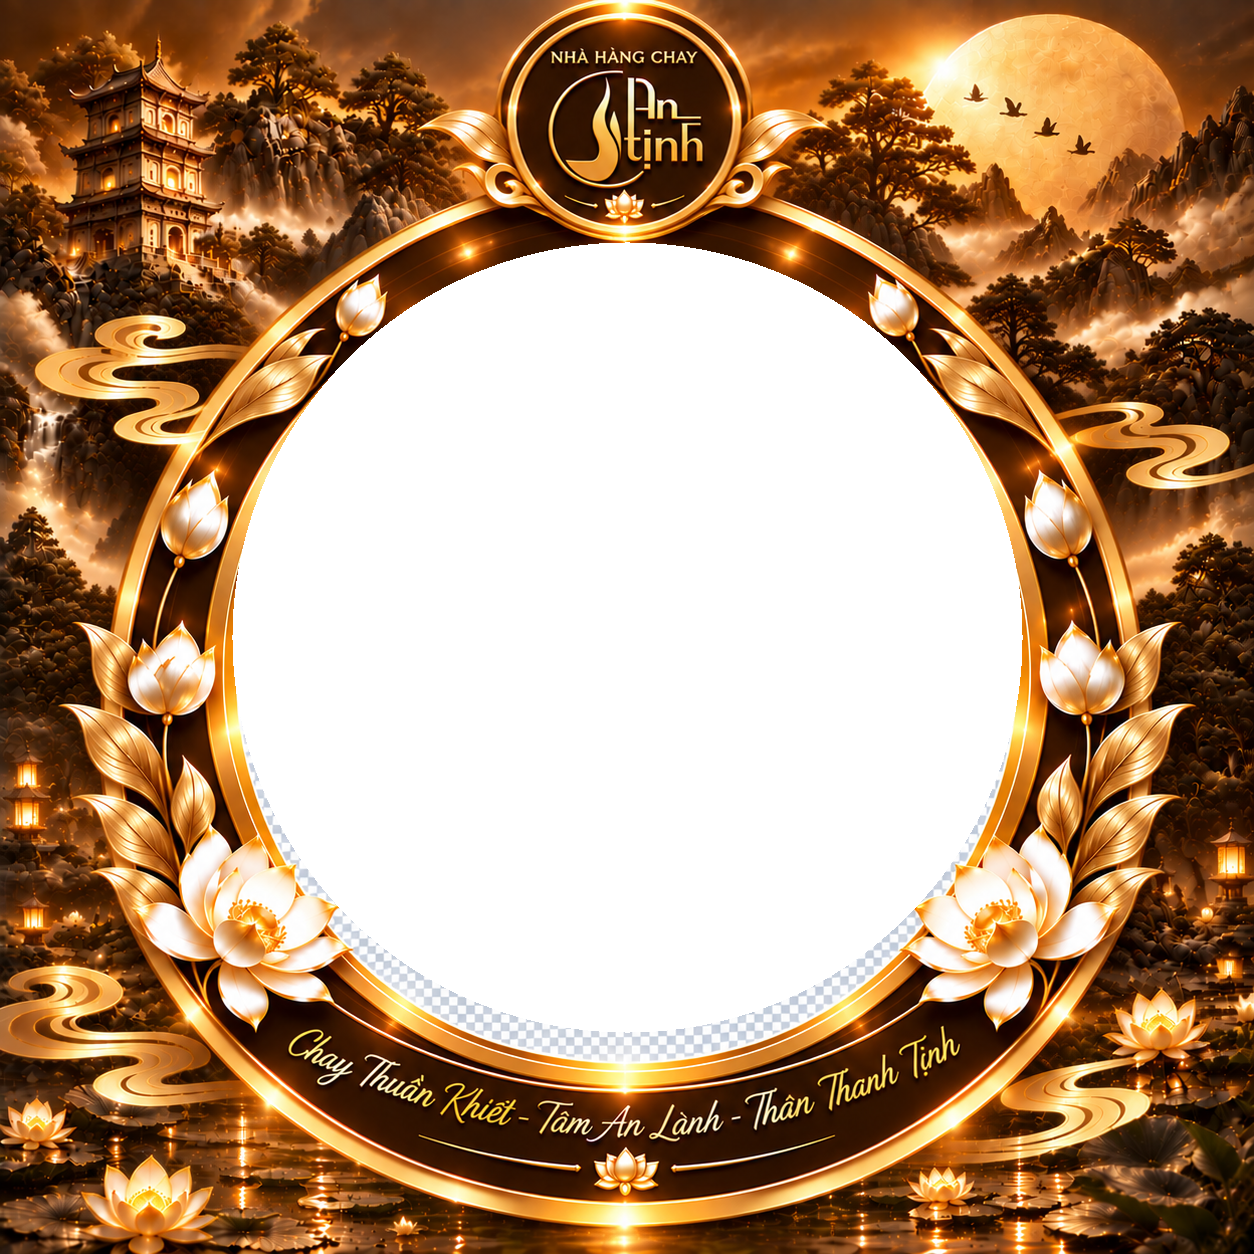
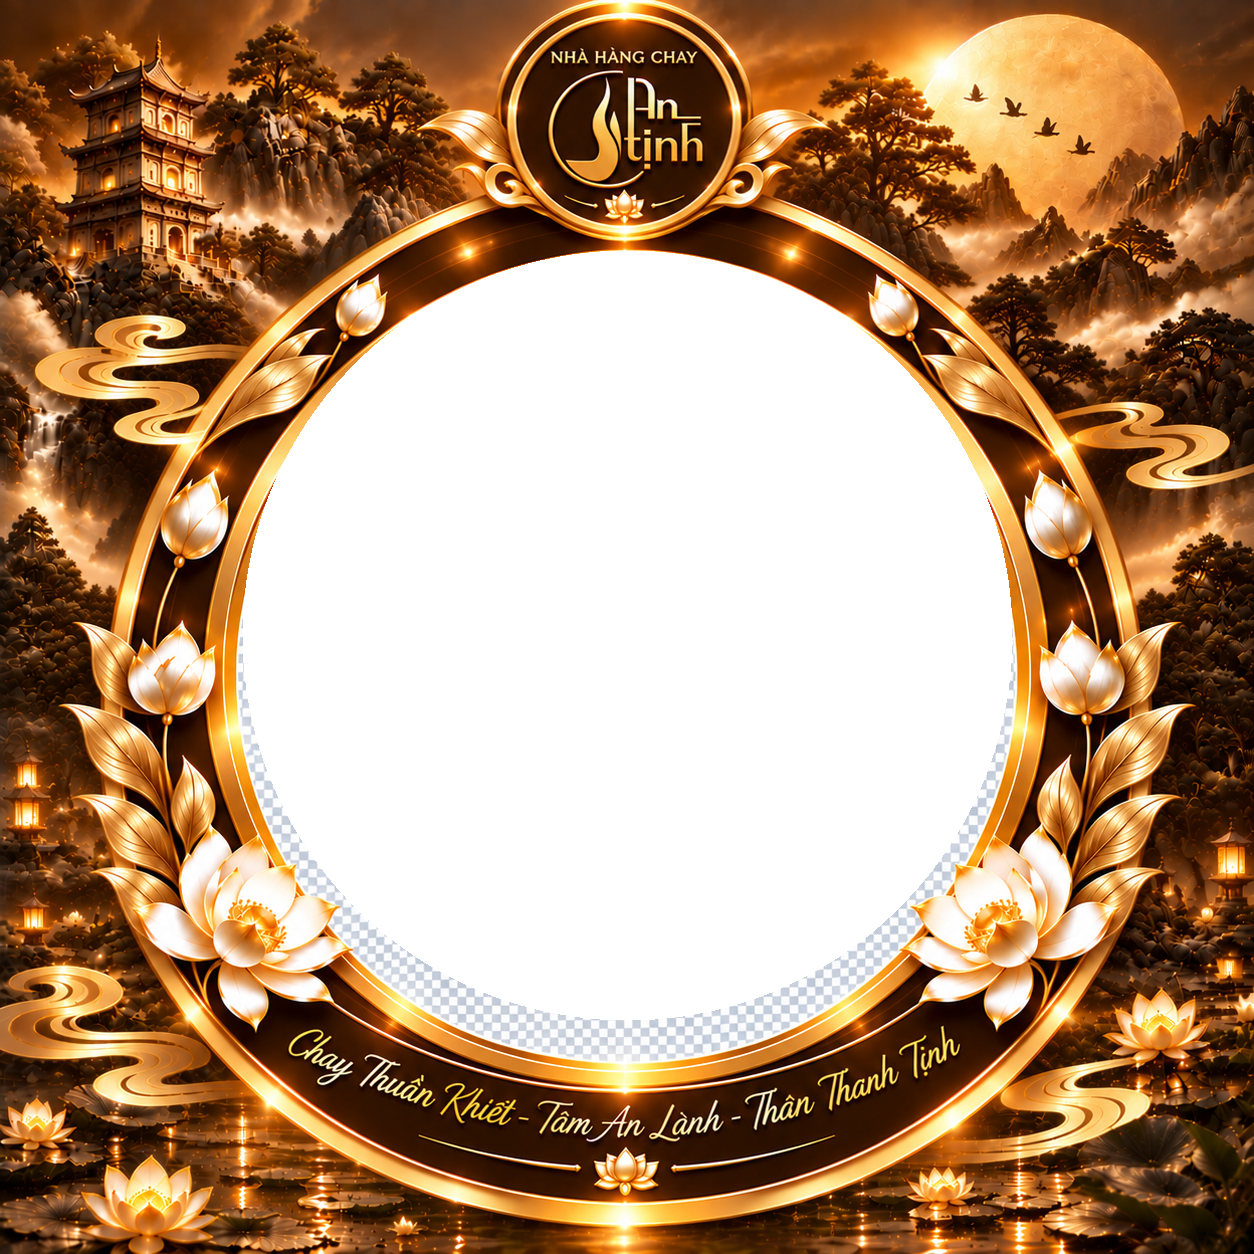
sua lại khung

diff --git a/index.html b/index.html
@@ -3,21 +3,89 @@
 <head>
 <meta charset="utf-8">
 <meta name="viewport" content="width=device-width,initial-scale=1">
-<title>Khung ảnh Nhà Hàng Chay An Tịnh</title>
+<title>Khung ảnh An Tịnh</title>
 <style>
 *{box-sizing:border-box}
-html,body{margin:0;background:#120b05}
-body{min-height:100vh;display:grid;place-items:center;padding:16px}
-.frame-wrap{position:relative;width:min(96vw,1000px);aspect-ratio:1/1;overflow:hidden}
-.photo,.frame{position:absolute;inset:0;width:100%;height:100%}
-.photo{object-fit:cover}
-.frame{object-fit:contain;pointer-events:none}
+body{margin:0;background:#160d06;color:#f8e6bf;font-family:Arial,sans-serif;text-align:center}
+.wrap{max-width:900px;margin:auto;padding:20px}
+h1{font-size:24px;margin:8px 0 6px}
+p{margin:6px 0 16px;color:#e6cf9f}
+.controls{display:flex;gap:10px;justify-content:center;flex-wrap:wrap;margin-bottom:18px}
+button,.file-label{border:1px solid #c9983e;background:#2a1709;color:#ffe7a7;padding:10px 18px;border-radius:8px;cursor:pointer;font-size:15px}
+button:hover,.file-label:hover{background:#41240e}
+input{display:none}
+.stage{position:relative;width:min(92vw,800px);aspect-ratio:1/1;margin:auto;overflow:hidden}
+#photoCanvas{position:absolute;inset:0;width:100%;height:100%;z-index:1}
+#frame{position:absolute;inset:0;width:100%;height:100%;z-index:2;pointer-events:none}
+.hint{font-size:13px;margin-top:12px;opacity:.8}
 </style>
 </head>
 <body>
-<div class="frame-wrap">
-  <img class="photo" src="photo.jpg" alt="Ảnh khách">
-  <img class="frame" src="an-tinh-frame.png" alt="Khung ảnh An Tịnh">
+<div class="wrap">
+<h1>Khung ảnh Nhà Hàng Chay An Tịnh</h1>
+<p>Chọn ảnh của khách — ảnh sẽ tự động nằm trong vùng tròn trung tâm.</p>
+<div class="controls">
+<label class="file-label">📷 Chọn ảnh<input id="file" type="file" accept="image/*"></label>
+<button id="download">⬇ Tải ảnh đã ghép</button>
 </div>
+<div class="stage">
+<canvas id="photoCanvas" width="1254" height="1254"></canvas>
+<img id="frame" src="an-tinh-frame.png" alt="Khung An Tịnh">
+</div>
+<div class="hint">Khung và logo nằm phía trên; không có chi tiết trang trí nào phủ lên ảnh khách.</div>
+</div>
+<script>
+const fileInput=document.getElementById('file');
+const canvas=document.getElementById('photoCanvas');
+const ctx=canvas.getContext('2d');
+const download=document.getElementById('download');
+const W=1254,H=1254;
+const cx=W/2, cy=H/2+8, r=Math.min(W,H)*0.307;
+
+function drawPlaceholder(){
+  ctx.clearRect(0,0,W,H);
+  ctx.fillStyle="#ffffff";
+  ctx.fillRect(0,0,W,H);
+}
+drawPlaceholder();
+
+fileInput.addEventListener('change',e=>{
+  const f=e.target.files[0]; if(!f)return;
+  const url=URL.createObjectURL(f);
+  const img=new Image();
+  img.onload=()=>{
+    ctx.clearRect(0,0,W,H);
+    ctx.save();
+    ctx.beginPath();
+    ctx.arc(cx,cy,r,0,Math.PI*2);
+    ctx.clip();
+
+    // Cover: ảnh lấp đầy toàn bộ vùng tròn, không để viền trắng.
+    const scale=Math.max((r*2)/img.width,(r*2)/img.height);
+    const dw=img.width*scale, dh=img.height*scale;
+    ctx.drawImage(img,cx-dw/2,cy-dh/2,dw,dh);
+    ctx.restore();
+    URL.revokeObjectURL(url);
+  };
+  img.src=url;
+});
+
+download.addEventListener('click',()=>{
+  // Ghép canvas ảnh khách + PNG khung thành một ảnh cuối.
+  const out=document.createElement('canvas');
+  out.width=W; out.height=H;
+  const o=out.getContext('2d');
+  o.drawImage(canvas,0,0,W,H);
+  const frameImg=new Image();
+  frameImg.onload=()=>{
+    o.drawImage(frameImg,0,0,W,H);
+    const a=document.createElement('a');
+    a.download='an-tinh-khung-anh.png';
+    a.href=out.toDataURL('image/png');
+    a.click();
+  };
+  frameImg.src='an-tinh-frame.png';
+});
+</script>
 </body>
 </html>
